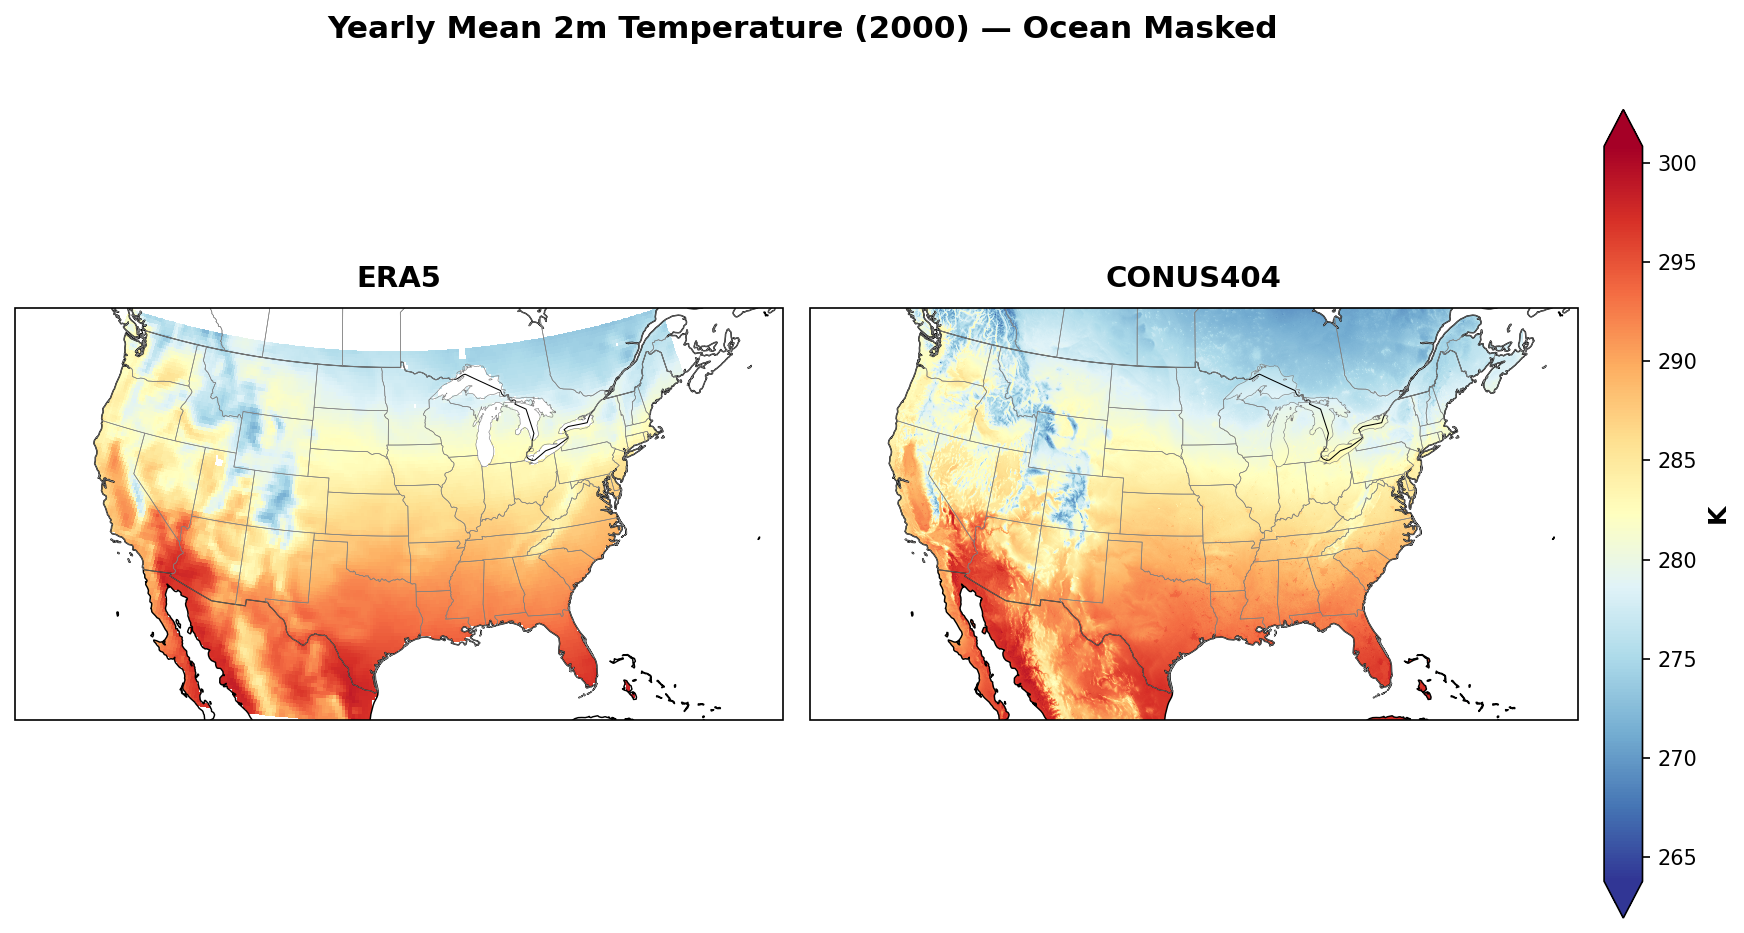
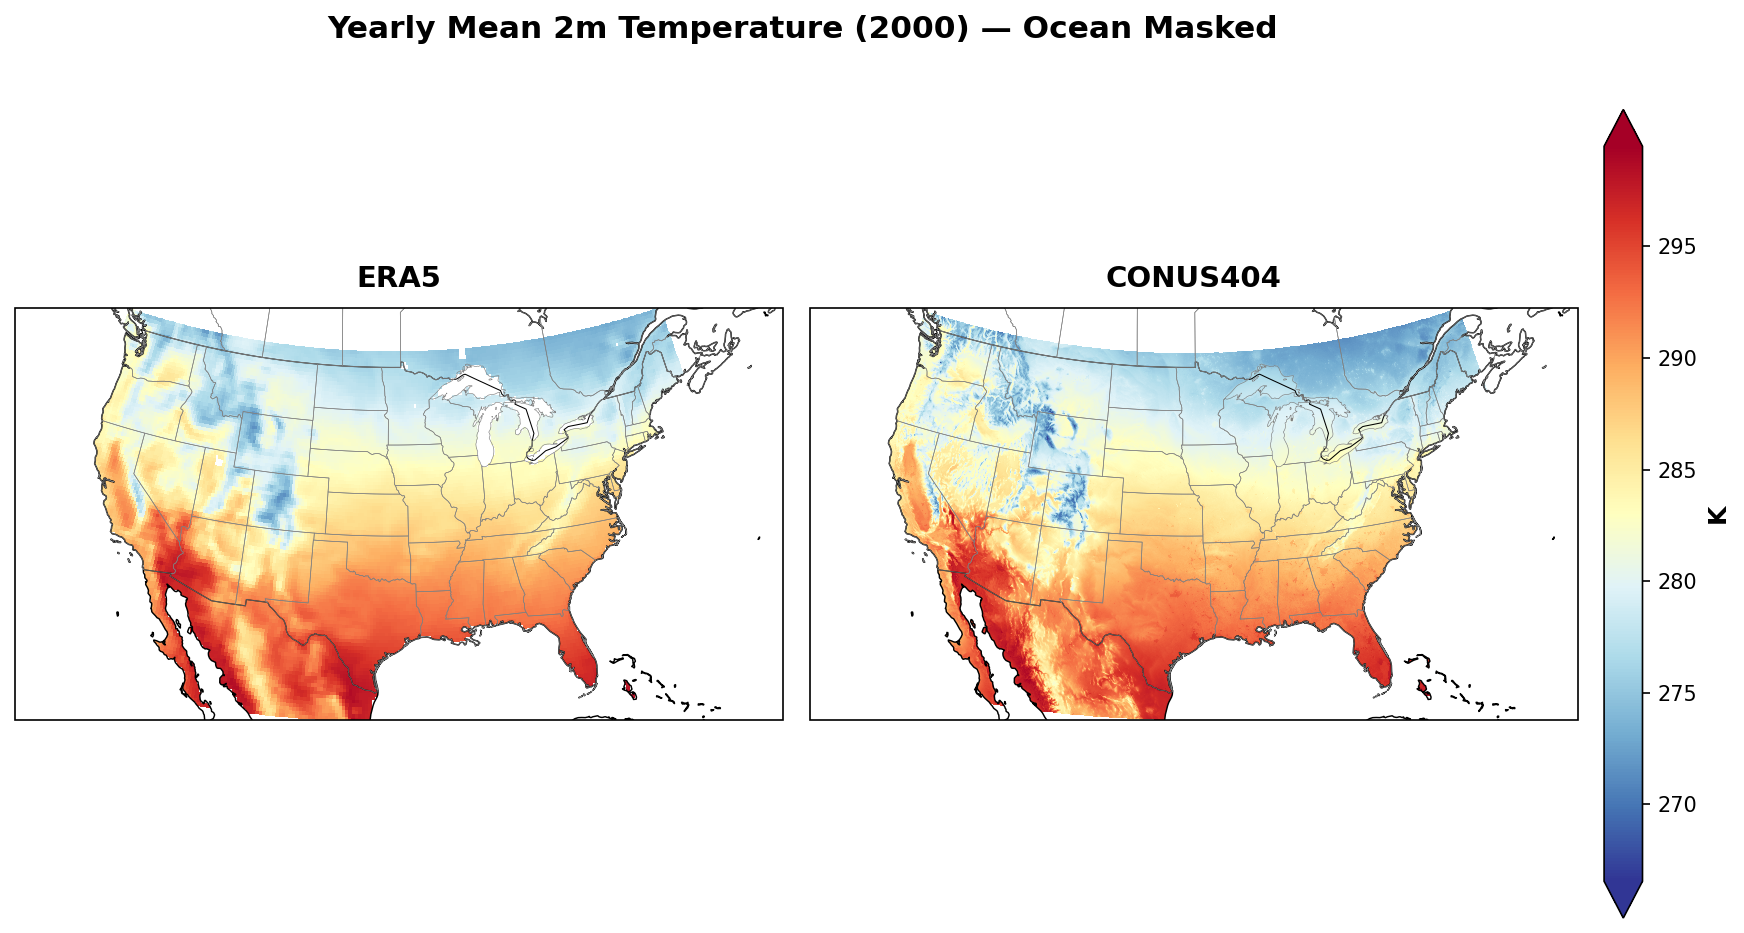
Fix CONUS404 extent to match ERA5 bounding box
Apply lat/lon bounds mask to CONUS404 before plotting so both panels
cover the identical geographic area (24-50N, 125-66W) instead of
CONUS404 extending into Canada.

diff --git a/gen_t2m_plot.py b/gen_t2m_plot.py
@@ -1,0 +1,90 @@
+#!/usr/local/other/GEOSpyD/24.3.0-0/2024-08-29/envs/py3.12/bin/python3
+"""Generate ocean-masked t2m heatmap for a single year."""
+import xarray as xr
+import numpy as np
+import matplotlib
+matplotlib.use('Agg')
+import matplotlib.pyplot as plt
+import matplotlib.gridspec as gridspec
+import cartopy.crs as ccrs
+import cartopy.feature as cfeature
+import os
+
+YEAR = 2000
+ERA5_FILE  = f"/gpfsm/dnb33/sduan/pipeline/data/processed/era5_{YEAR}.nc"
+CONUS_FILE = f"/gpfsm/dnb33/hpmille1/final_data/conus404_yearly_{YEAR}.nc"
+LAT_MIN, LAT_MAX = 24, 50
+LON_MIN, LON_MAX = -125, -66
+
+os.makedirs("plots", exist_ok=True)
+
+proj = ccrs.LambertConformal(central_longitude=-96, central_latitude=39,
+                             standard_parallels=(33, 45))
+
+def add_map_features(ax):
+    ax.coastlines('50m', color='black', linewidth=0.7)
+    ax.add_feature(cfeature.BORDERS, linewidth=0.5)
+    ax.add_feature(cfeature.STATES, linewidth=0.3, edgecolor='gray')
+    ax.add_feature(cfeature.OCEAN, facecolor='white', zorder=1)
+    ax.set_extent([LON_MIN, LON_MAX, LAT_MIN, LAT_MAX], crs=ccrs.PlateCarree())
+
+era   = xr.open_dataset(ERA5_FILE)
+conus = xr.open_dataset(CONUS_FILE)
+
+# ── ERA5 t2m yearly mean ─────────────────────────────────────────────────────
+era_t2m = era['t2m'].mean(dim=[d for d in era['t2m'].dims
+                               if d in ('time', 'valid_time')])
+era_t2m = era_t2m.sel(latitude=slice(LAT_MAX, LAT_MIN),
+                       longitude=slice(LON_MIN, LON_MAX))
+
+# apply lsm mask (0=ocean → NaN)
+lsm = era['lsm'].isel(time=0, valid_time=0).sel(
+    latitude=slice(LAT_MAX, LAT_MIN), longitude=slice(LON_MIN, LON_MAX))
+era_arr = np.where(lsm.values >= 0.5, era_t2m.values, np.nan)
+lat_e = era_t2m['latitude'].values
+lon_e = era_t2m['longitude'].values
+
+# ── CONUS404 T2 yearly mean ──────────────────────────────────────────────────
+conus_t2 = conus['T2'].mean(dim='time')
+lat2d = conus['lat'].values
+lon2d = conus['lon'].values
+conus_arr = conus_t2.values
+
+# mask CONUS404 to the same bounding box as ERA5 so both panels cover identical area
+bounds_mask = ((lat2d >= LAT_MIN) & (lat2d <= LAT_MAX) &
+               (lon2d >= LON_MIN) & (lon2d <= LON_MAX))
+conus_arr = np.where(bounds_mask, conus_arr, np.nan)
+
+# ── shared colorscale (land-only values) ─────────────────────────────────────
+vmin = min(np.nanmin(era_arr), np.nanmin(conus_arr))
+vmax = max(np.nanmax(era_arr), np.nanmax(conus_arr))
+
+# ── plot ─────────────────────────────────────────────────────────────────────
+fig = plt.figure(figsize=(14, 7))
+gs  = gridspec.GridSpec(1, 3, width_ratios=[1, 1, 0.05], wspace=0.05)
+
+ax1 = fig.add_subplot(gs[0], projection=proj)
+im1 = ax1.pcolormesh(lon_e, lat_e, era_arr, transform=ccrs.PlateCarree(),
+                     cmap='RdYlBu_r', vmin=vmin, vmax=vmax, shading='auto')
+add_map_features(ax1)
+ax1.set_title('ERA5', fontsize=14, fontweight='bold', pad=10)
+
+ax2 = fig.add_subplot(gs[1], projection=proj)
+im2 = ax2.pcolormesh(lon2d, lat2d, conus_arr, transform=ccrs.PlateCarree(),
+                     cmap='RdYlBu_r', vmin=vmin, vmax=vmax, shading='auto')
+add_map_features(ax2)
+ax2.set_title('CONUS404', fontsize=14, fontweight='bold', pad=10)
+
+cax = fig.add_subplot(gs[2])
+fig.colorbar(im2, cax=cax, extend='both').set_label('K', fontsize=12, fontweight='bold')
+
+fig.suptitle(f'Yearly Mean 2m Temperature ({YEAR}) — Ocean Masked',
+             fontsize=15, fontweight='bold', y=0.97)
+
+out = "plots/t2m_heatmap_ocean_masked.png"
+plt.savefig(out, dpi=150, bbox_inches='tight')
+plt.close()
+print(f"saved: {out}")
+
+era.close()
+conus.close()
